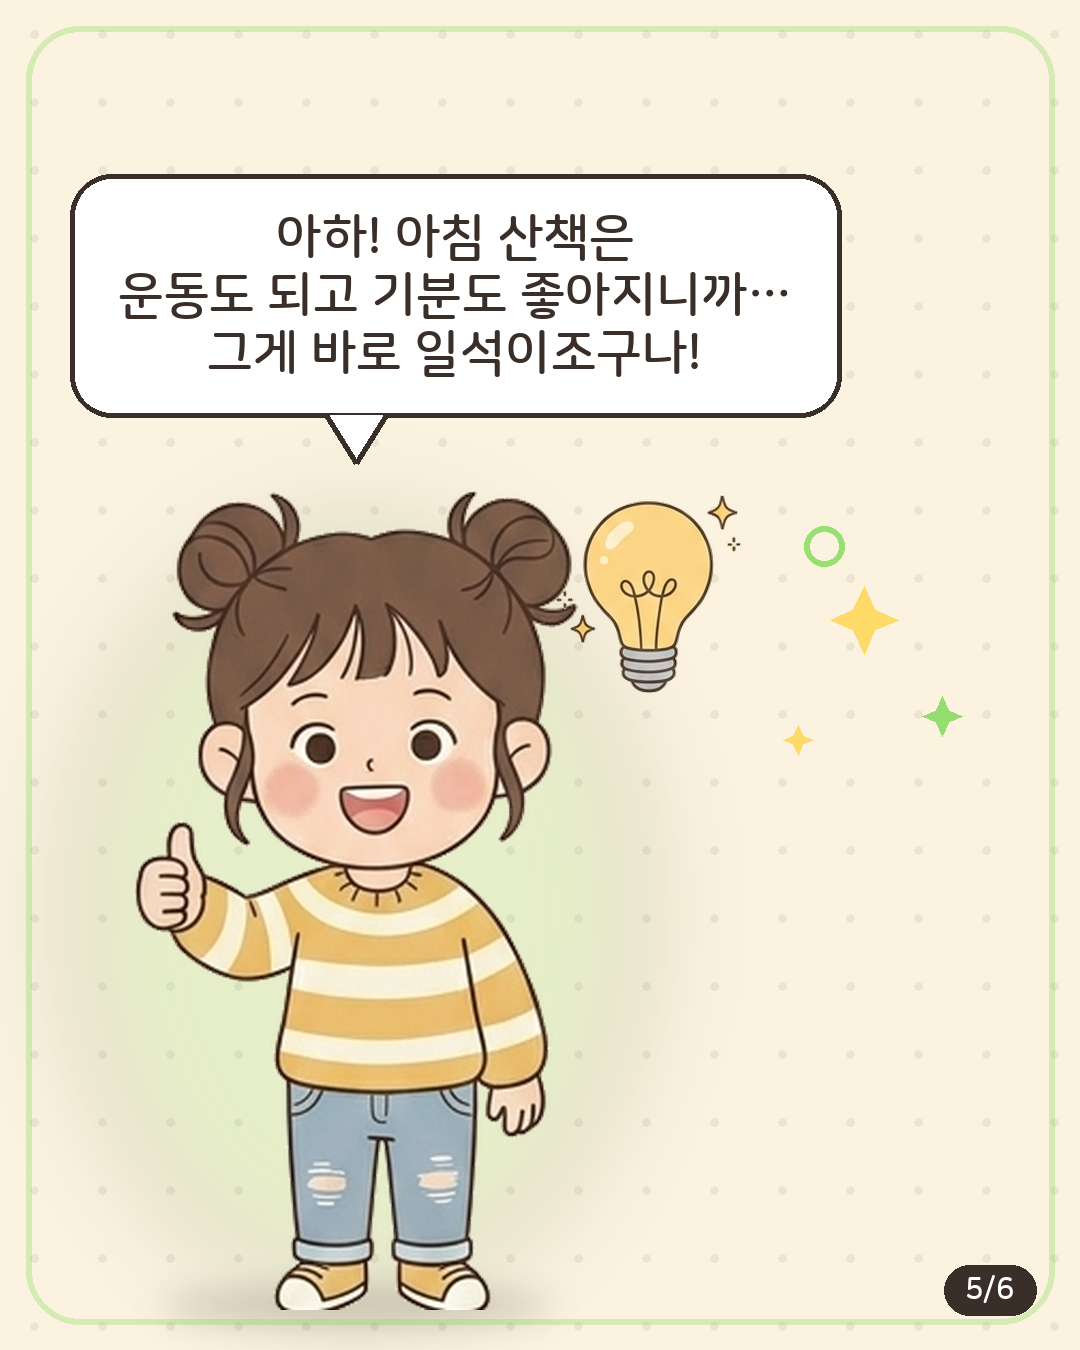
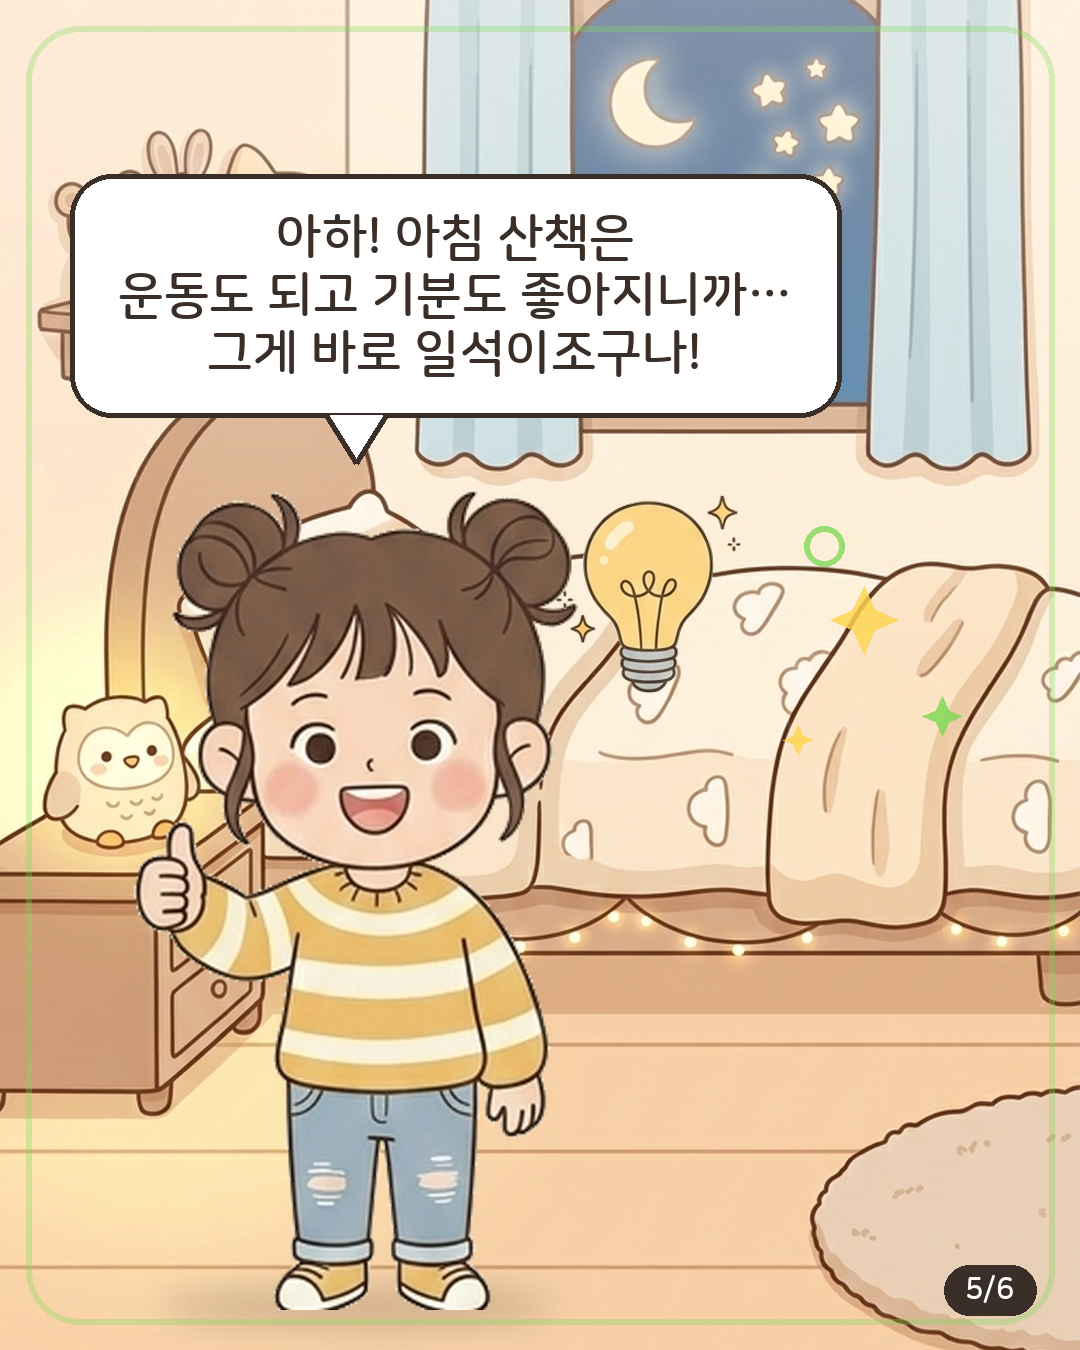
배경 합성 기능 추가: 패널 bg 지정 시 배경 위에 캐릭터·말풍선 합성
- build_toon: panel.bg(또는 theme.bg_image) 지정 시 assets/backgrounds/<bg>를
  cover-fit 배경으로 사용, 상단 스크림으로 말풍선 가독성 확보, 도트/스포트라이트
  는 배경 있을 때 생략. 카드뉴스·쇼츠 양쪽 자동 반영.
- 샘플: 패널2 공부방·4 도서관·5 침실 배경 적용. 아웃트로 핸들 @askpapa로 통일.

Claude-Session: https://claude.ai/code/session_017aZsFFKZYK3uzJsAVUrejt

diff --git a/toon/build_toon.py b/toon/build_toon.py
@@ -13,6 +13,7 @@ from PIL import Image, ImageDraw, ImageFont, ImageFilter
 
 ROOT = pathlib.Path(__file__).resolve().parent
 CH = ROOT / "assets" / "characters"
+BGDIR = ROOT / "assets" / "backgrounds"
 W, H = 1080, 1350
 
 # ── 폰트 ────────────────────────────────────────────
@@ -140,6 +141,23 @@ def props_of(base, panel):
     for pr in panel.get("props", []):
         place_prop(base, pr["name"], pr["x"], pr["y"], pr.get("scale", 0.12), pr.get("flip", False))
 
+# ── 배경 합성 ────────────────────────────────────────
+def load_bg(name):
+    """배경 이미지를 캔버스(W×H)에 cover-fit."""
+    im = Image.open(BGDIR / f"{name}.png").convert("RGBA")
+    s = max(W / im.width, H / im.height)
+    im = im.resize((max(W, int(im.width * s)), max(H, int(im.height * s))), Image.LANCZOS)
+    x, y = (im.width - W) // 2, (im.height - H) // 2
+    return im.crop((x, y, x + W, y + H))
+
+def top_scrim(base, frac=0.5, alpha=95):
+    """상단(말풍선 영역) 가독성용 은은한 밝은 그라데이션."""
+    ov = Image.new("RGBA", (W, H), (0, 0, 0, 0)); od = ImageDraw.Draw(ov)
+    h = int(H * frac)
+    for y in range(h):
+        od.line([(0, y), (W, y)], fill=(255, 252, 244, int(alpha * (1 - y / h))))
+    base.alpha_composite(ov)
+
 # ── 말풍선 ───────────────────────────────────────────
 def bubble(base, text, side, cx, theme, bottom=None, top=110, maxw=680):
     """bottom 이 주어지면 말풍선 바닥을 그 y 에 맞춘다(캐릭터 머리 위 앵커).
@@ -183,17 +201,24 @@ def page_no(base, i, n, theme):
 # ── 패널 렌더 ────────────────────────────────────────
 def render(panel, theme, idx, total):
     bg = hx(theme["bg"])
-    base = Image.new("RGBA", (W, H), bg + (255,))
     ink, acc, acc2 = hx(theme["ink"]), hx(theme["accent"]), hx(theme["accent2"])
     kind = panel["kind"]
-    bg_dots(base, ink)
+    bg_name = panel.get("bg") or theme.get("bg_image")
+    if bg_name:
+        base = load_bg(bg_name)
+        top_scrim(base)
+    else:
+        base = Image.new("RGBA", (W, H), bg + (255,))
+        bg_dots(base, ink)
+    spot_c = None if bg_name else acc
 
     if kind == "cover":
         spotlight(base, W // 2, 430, 430, 300, acc2, alpha=46, blur=64)
-        sparkle(base, 175, 305, 26, acc)
-        sparkle(base, 905, 335, 30, acc2)
-        ring(base, 240, 560, 22, acc2, width=6)
-        sparkle(base, 915, 560, 22, acc)
+        if not bg_name:
+            sparkle(base, 175, 305, 26, acc)
+            sparkle(base, 905, 335, 30, acc2)
+            ring(base, 240, 560, 22, acc2, width=6)
+            sparkle(base, 915, 560, 22, acc)
         pill(base, panel.get("tag", "오늘의 표현"), W // 2, 210, acc, hx("#1E3A24"), f_bold(40))
         mtext(base, (W // 2, 300), panel["title"], f_title(150), ink, anchor="ma")
         if panel.get("hanja"):
@@ -202,17 +227,18 @@ def render(panel, theme, idx, total):
             mtext(base, (W // 2, 600), panel["sub"], f_reg(48), ink, anchor="ma")
         for c in panel.get("chars", []):
             place(base, c["name"], c["x"], c["scale"], baseline=H - 30,
-                  flip=c.get("flip", False), spot=acc, shadow=True)
+                  flip=c.get("flip", False), spot=spot_c, shadow=True)
         props_of(base, panel)
 
     elif kind == "outro":
         d = ImageDraw.Draw(base)
-        sparkle(base, 150, 270, 26, acc2)
-        sparkle(base, 930, 255, 22, acc)
+        if not bg_name:
+            sparkle(base, 150, 270, 26, acc2)
+            sparkle(base, 930, 255, 22, acc)
         # 캐릭터 먼저(하단 배경)
         for c in panel.get("chars", []):
             place(base, c["name"], c["x"], c["scale"], baseline=H - 40,
-                  flip=c.get("flip", False), spot=acc, shadow=True)
+                  flip=c.get("flip", False), spot=spot_c, shadow=True)
         props_of(base, panel)
         y = 120
         mtext(base, (W // 2, y), panel.get("title", "영어로는?"), f_title(84), ink, anchor="ma")
@@ -243,7 +269,7 @@ def render(panel, theme, idx, total):
         tops = []
         for c in chars:
             cx, ty = place(base, c["name"], c["x"], c["scale"],
-                           flip=c.get("flip", False), spot=acc, shadow=True)
+                           flip=c.get("flip", False), spot=spot_c, shadow=True)
             cxs[c.get("from", "left" if c["x"] < 0.5 else "right")] = cx
             tops.append(ty)
         if len(chars) == 1:  # 한 명이면 빈 쪽에 데코
